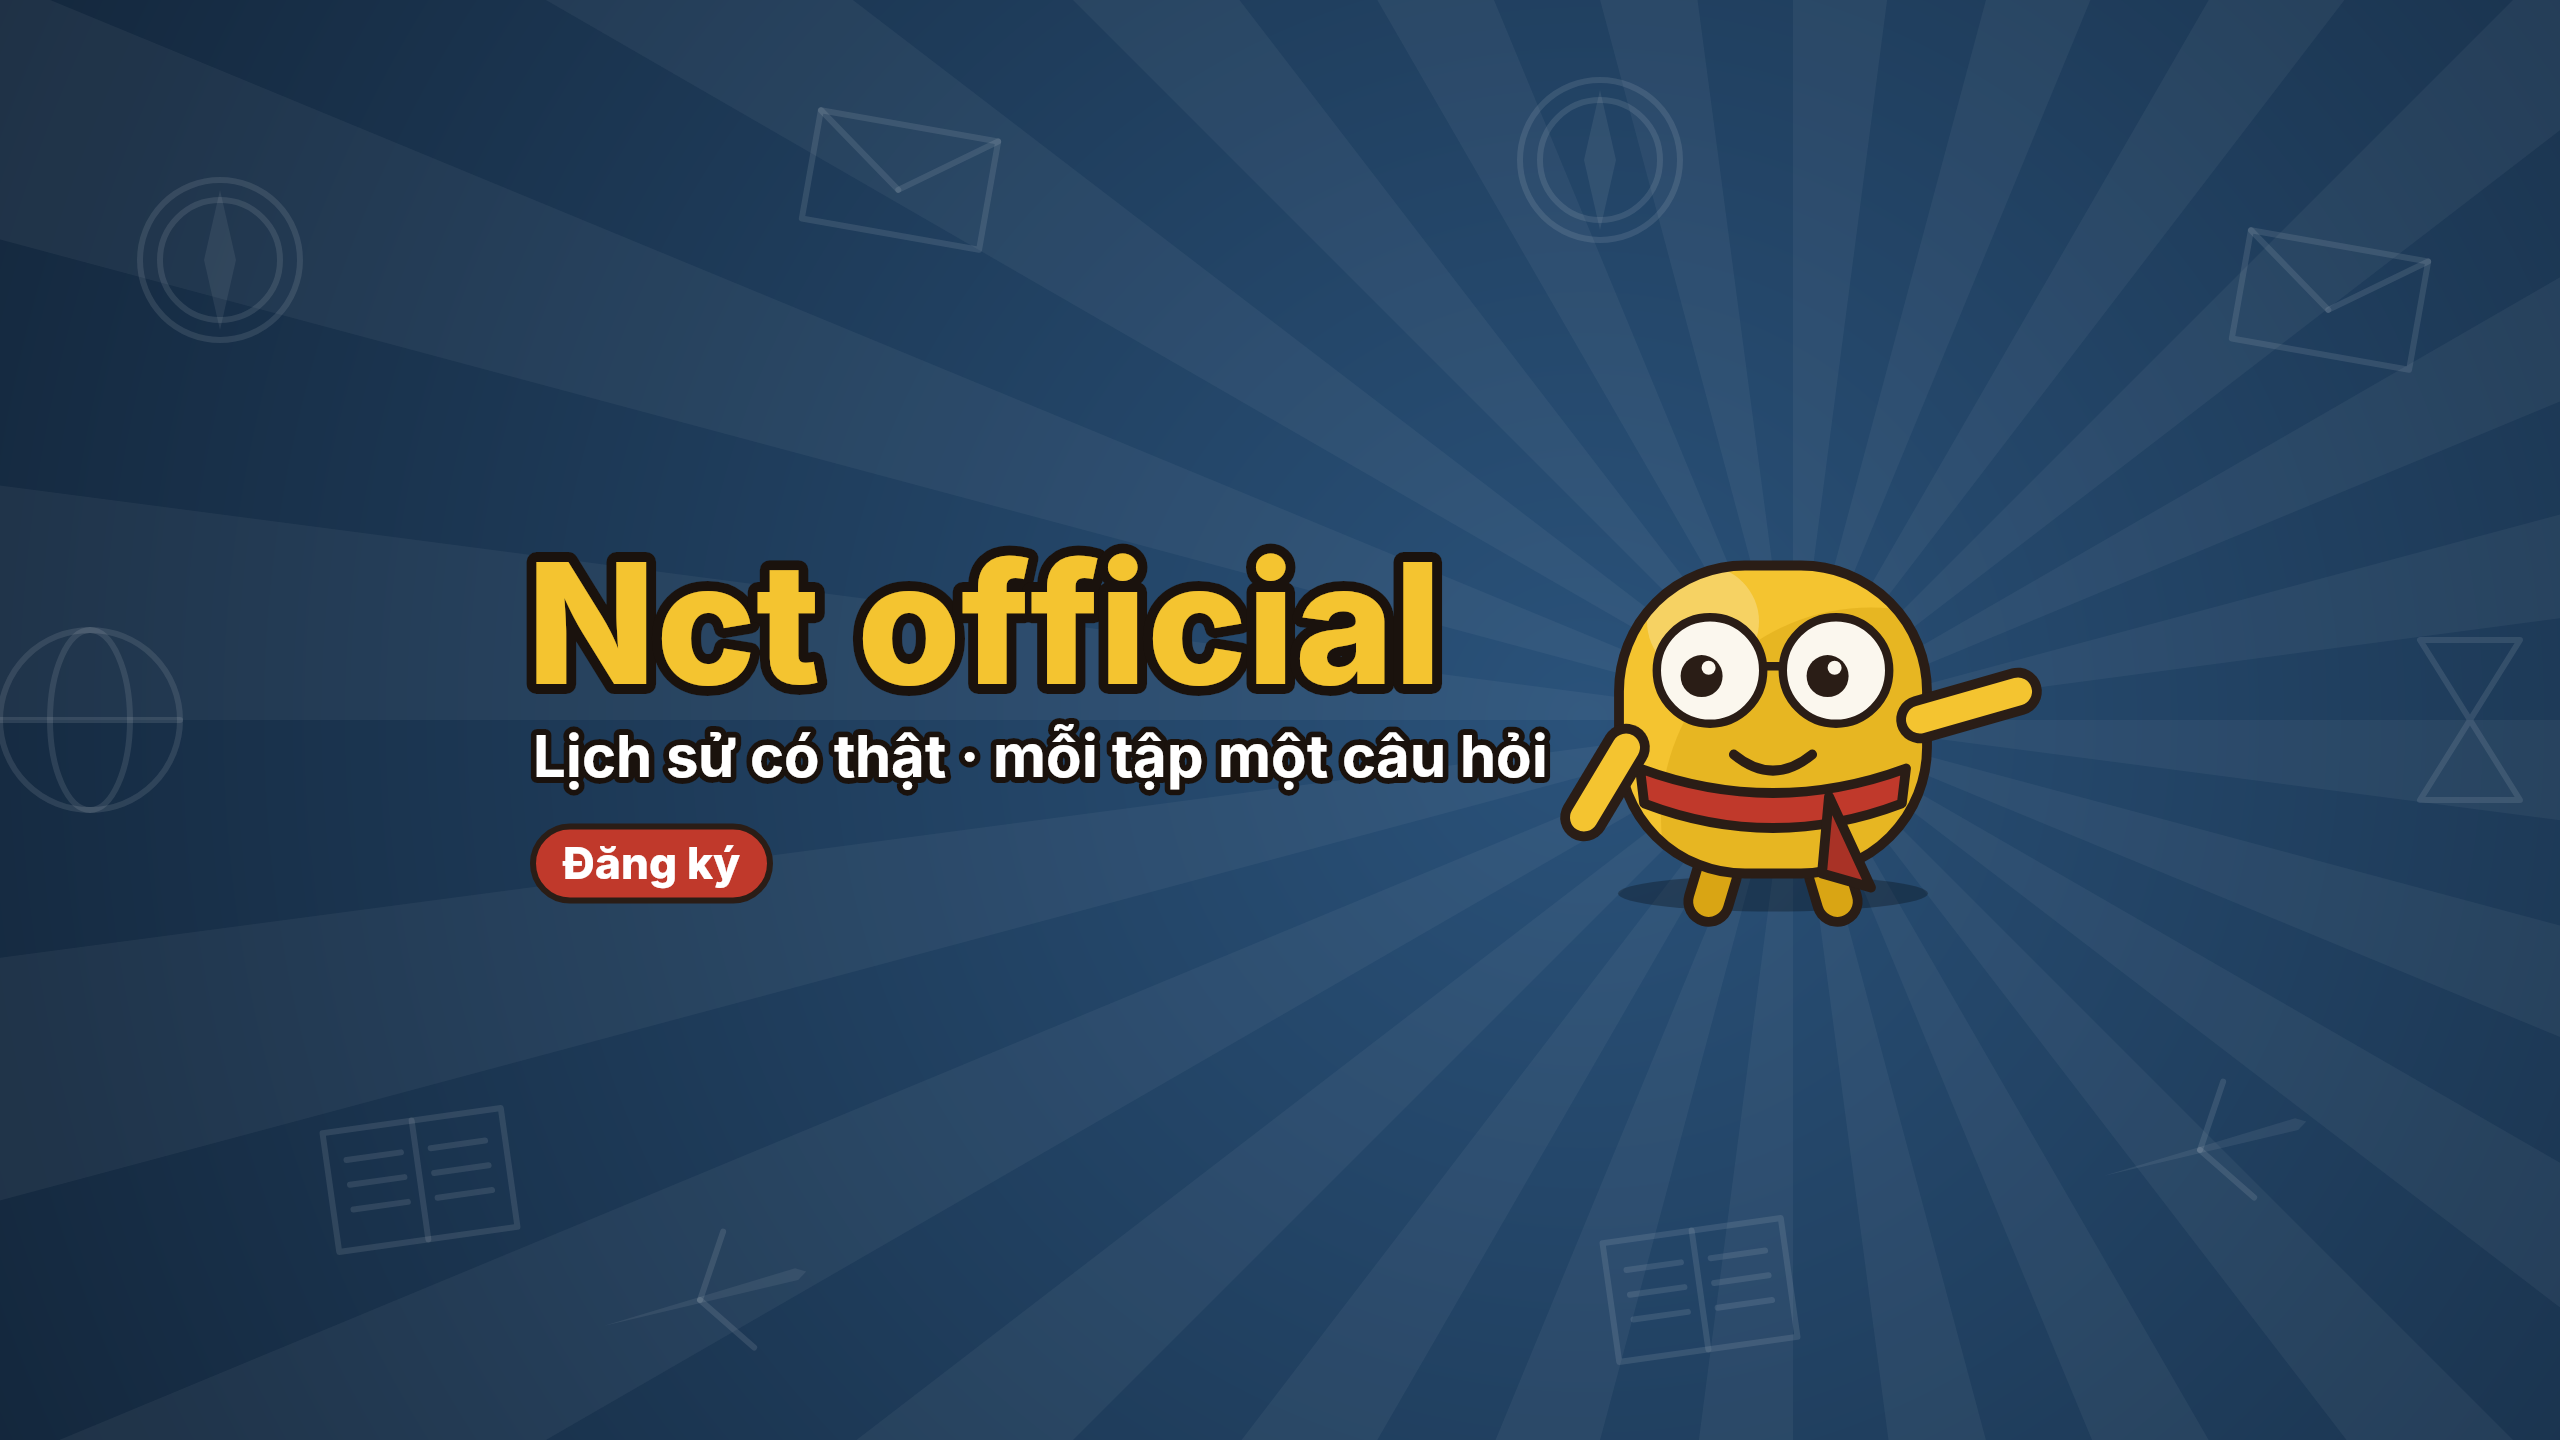
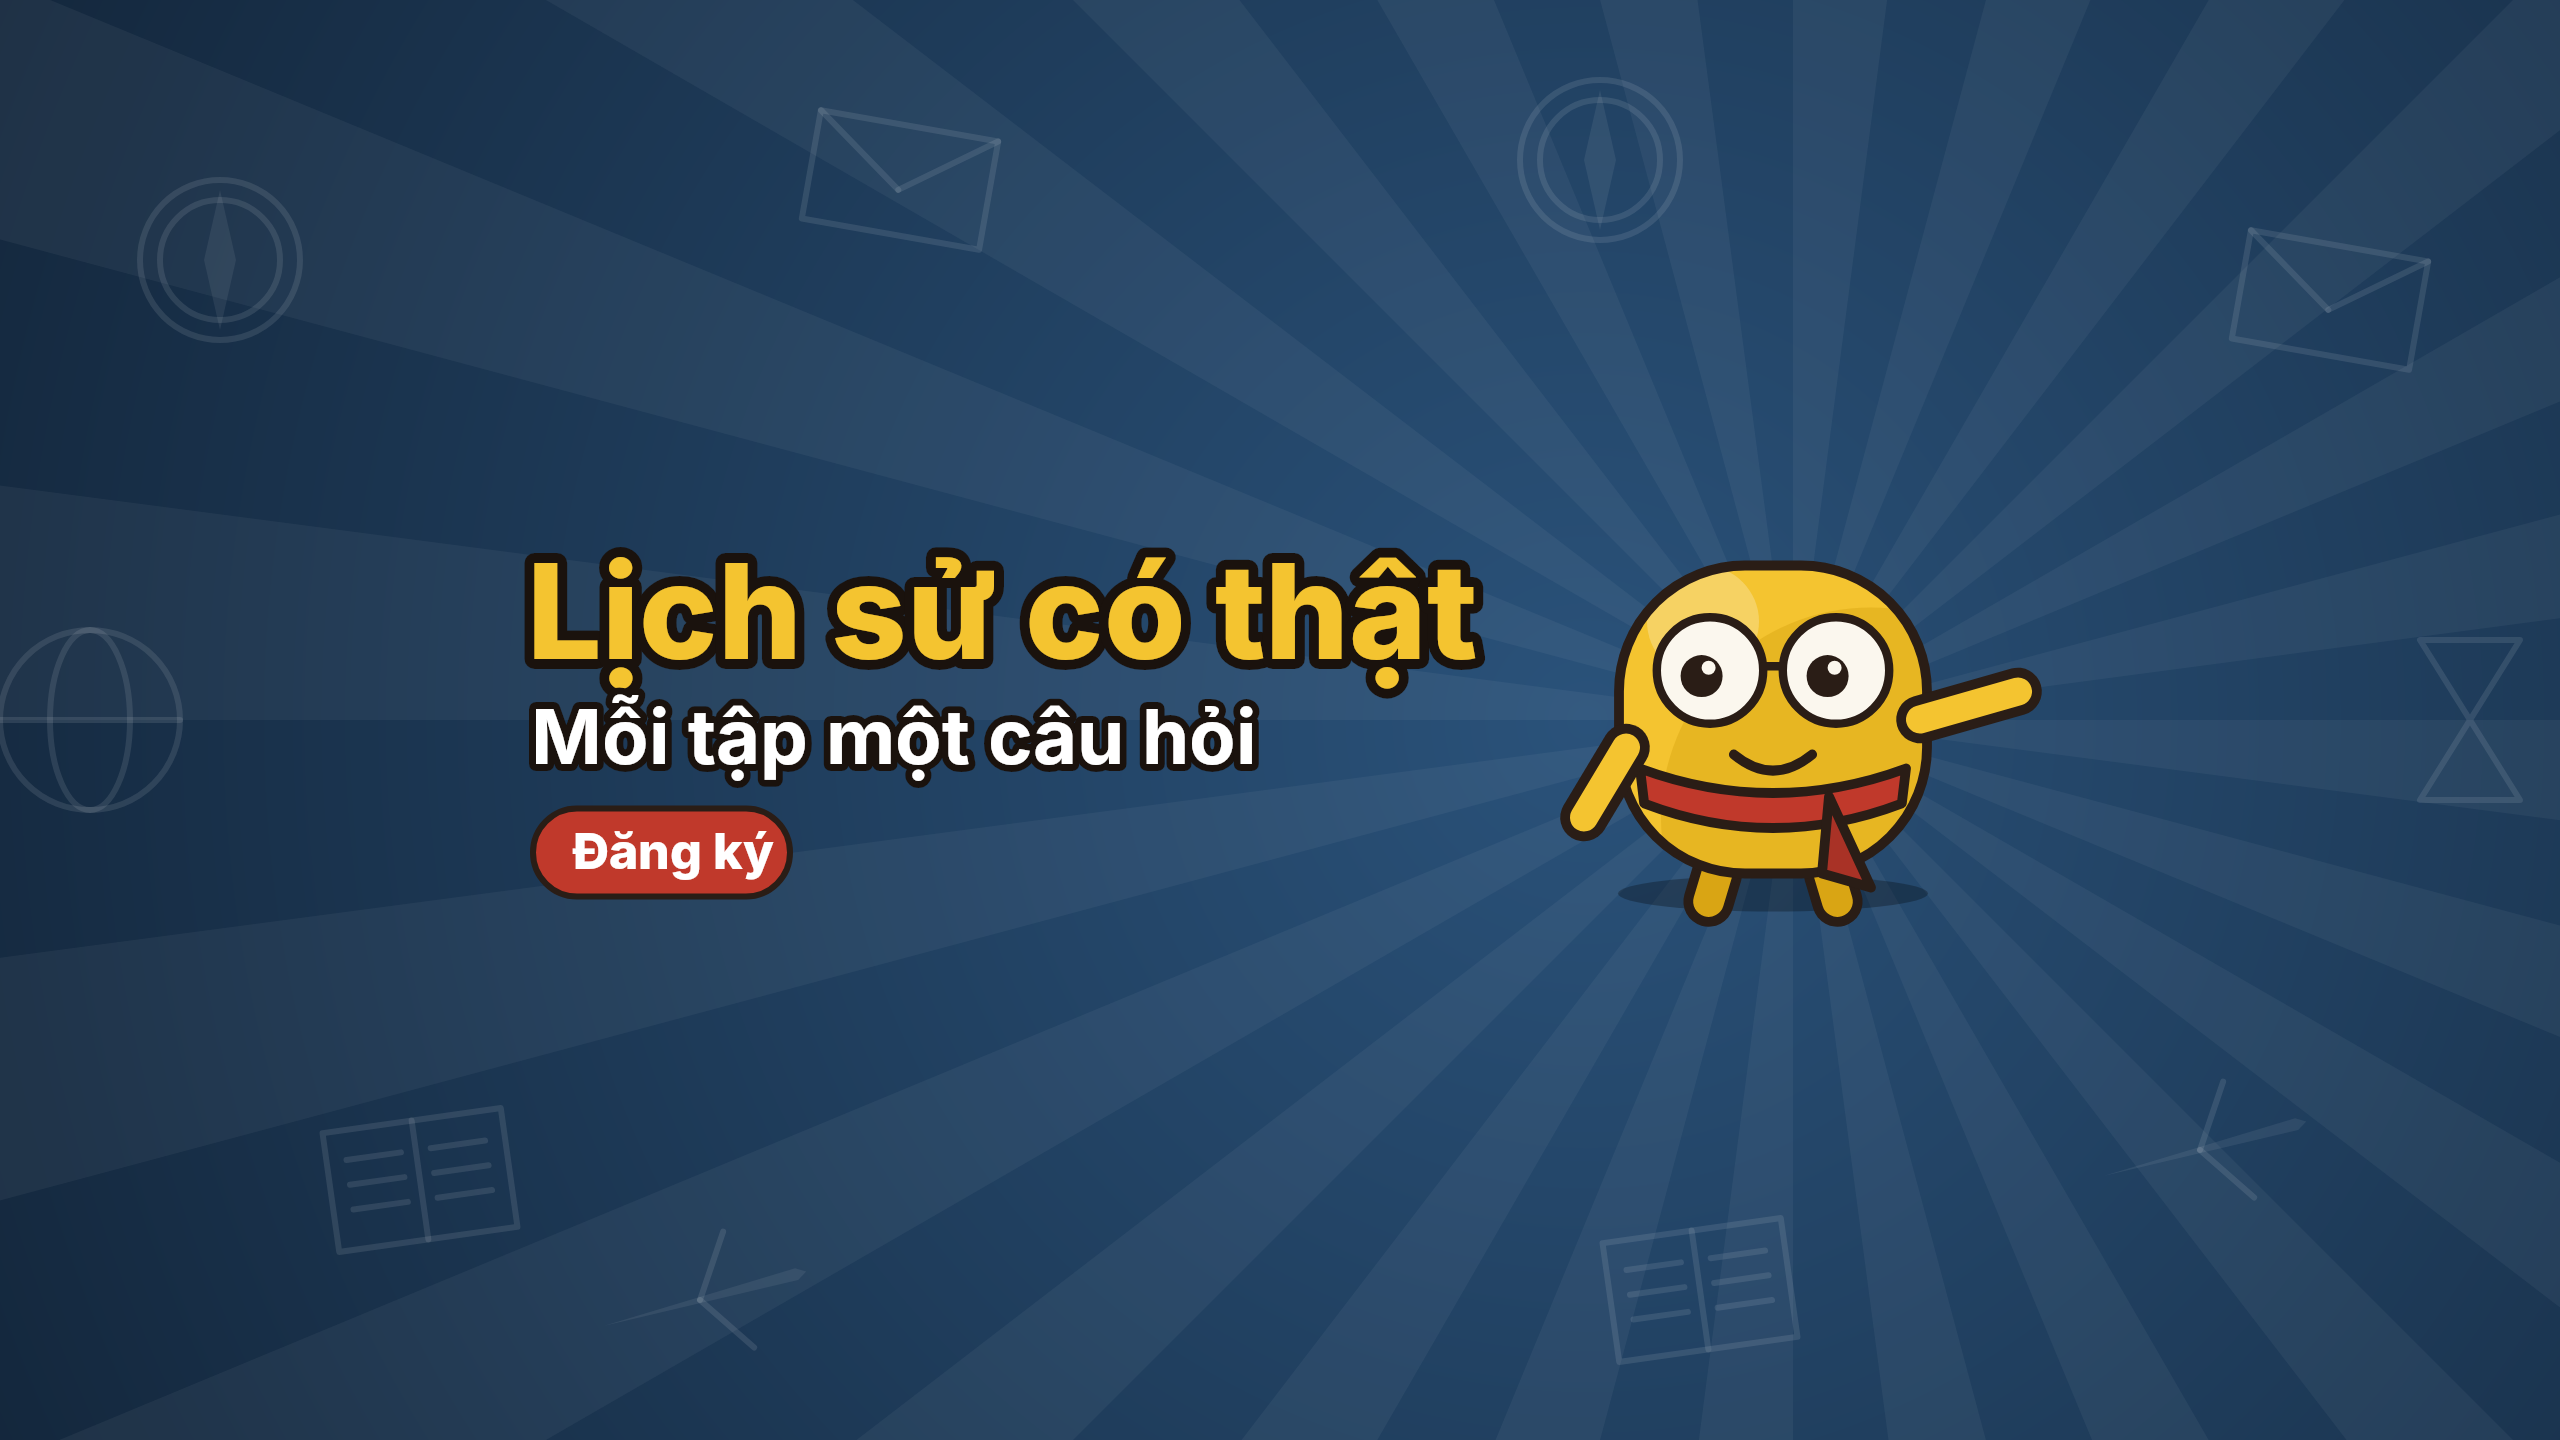
Ảnh bìa: bỏ tên kênh, giữ câu giới thiệu và nút Đăng ký
Claude-Session: https://claude.ai/code/session_012ddh6X3Xbd3ds3fY13qPEF

Changed region(s): [[0.1875, 0.375, 0.625, 0.625]]

diff --git a/brand/make_banner.py b/brand/make_banner.py
@@ -61,13 +61,13 @@ def render(name, top, bot):
     mascot(c, cx - 20, SAFE.bottom() - 30, 1.4, "smile", look=(-0.6, 0.1), t=1.0, arm="point")
     # chữ bên trái
     x0 = SAFE.left() + 20
-    text(c, "Nct official", x0, SAFE.top() + 175, "xbold", 168, "#F4C430", stroke=10, stroke_color="#1A120D")
-    text(c, "Lịch sử có thật · mỗi tập một câu hỏi", x0 + 6, SAFE.top() + 268, "bold", 58, "#FFFFFF", stroke=6, stroke_color="#1A120D")
+    text(c, "Lịch sử có thật", x0, SAFE.top() + 150, "xbold", 132, "#F4C430", stroke=10, stroke_color="#1A120D")
+    text(c, "Mỗi tập một câu hỏi", x0 + 4, SAFE.top() + 255, "bold", 76, "#FFFFFF", stroke=7, stroke_color="#1A120D")
     tag = "Đăng ký"
     tw_ = tw(tag, "xbold", 44) + 60
-    pill = rrect_path(x0 + 6, SAFE.top() + 318, tw_, 74, 37)
+    pill = rrect_path(x0 + 6, SAFE.top() + 300, tw_ + 20, 88, 44)
     fill_out(c, pill, "#C0392B", ow=6)
-    text(c, tag, x0 + 36, SAFE.top() + 370, "xbold", 44, "#FFFFFF")
+    text(c, tag, x0 + 46, SAFE.top() + 360, "xbold", 50, "#FFFFFF")
     img = surf.makeImageSnapshot()
     img.save(str(HERE / f"banner_{name}.png"))
     return img
